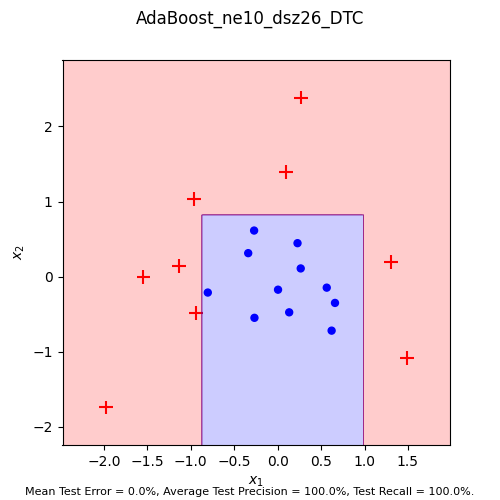
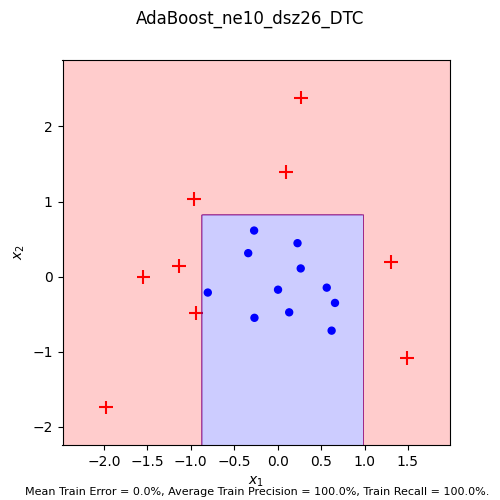
Fixed graph test and training labelling issue

Changed region(s): [[0.12, 0.96, 0.99, 1.0]]

diff --git a/Assignment 5/main.py b/Assignment 5/main.py
@@ -224,9 +224,9 @@ def plot_adaboost(X: np.ndarray,
                            f"Average Test Precision = {avg_prec:0.1%}, " \
                            f"Test Recall = {recall:0.1%}."
         else:
-            mean_acc_str = f"Mean Test Error = {mean_err:0.1%}, " \
-                           f"Average Test Precision = {avg_prec:0.1%}, " \
-                           f"Test Recall = {recall:0.1%}."
+            mean_acc_str = f"Mean Train Error = {mean_err:0.1%}, " \
+                           f"Average Train Precision = {avg_prec:0.1%}, " \
+                           f"Train Recall = {recall:0.1%}."
 
         plt.figtext(0.05, 0.01, mean_acc_str, fontsize=8)
         if not output:
